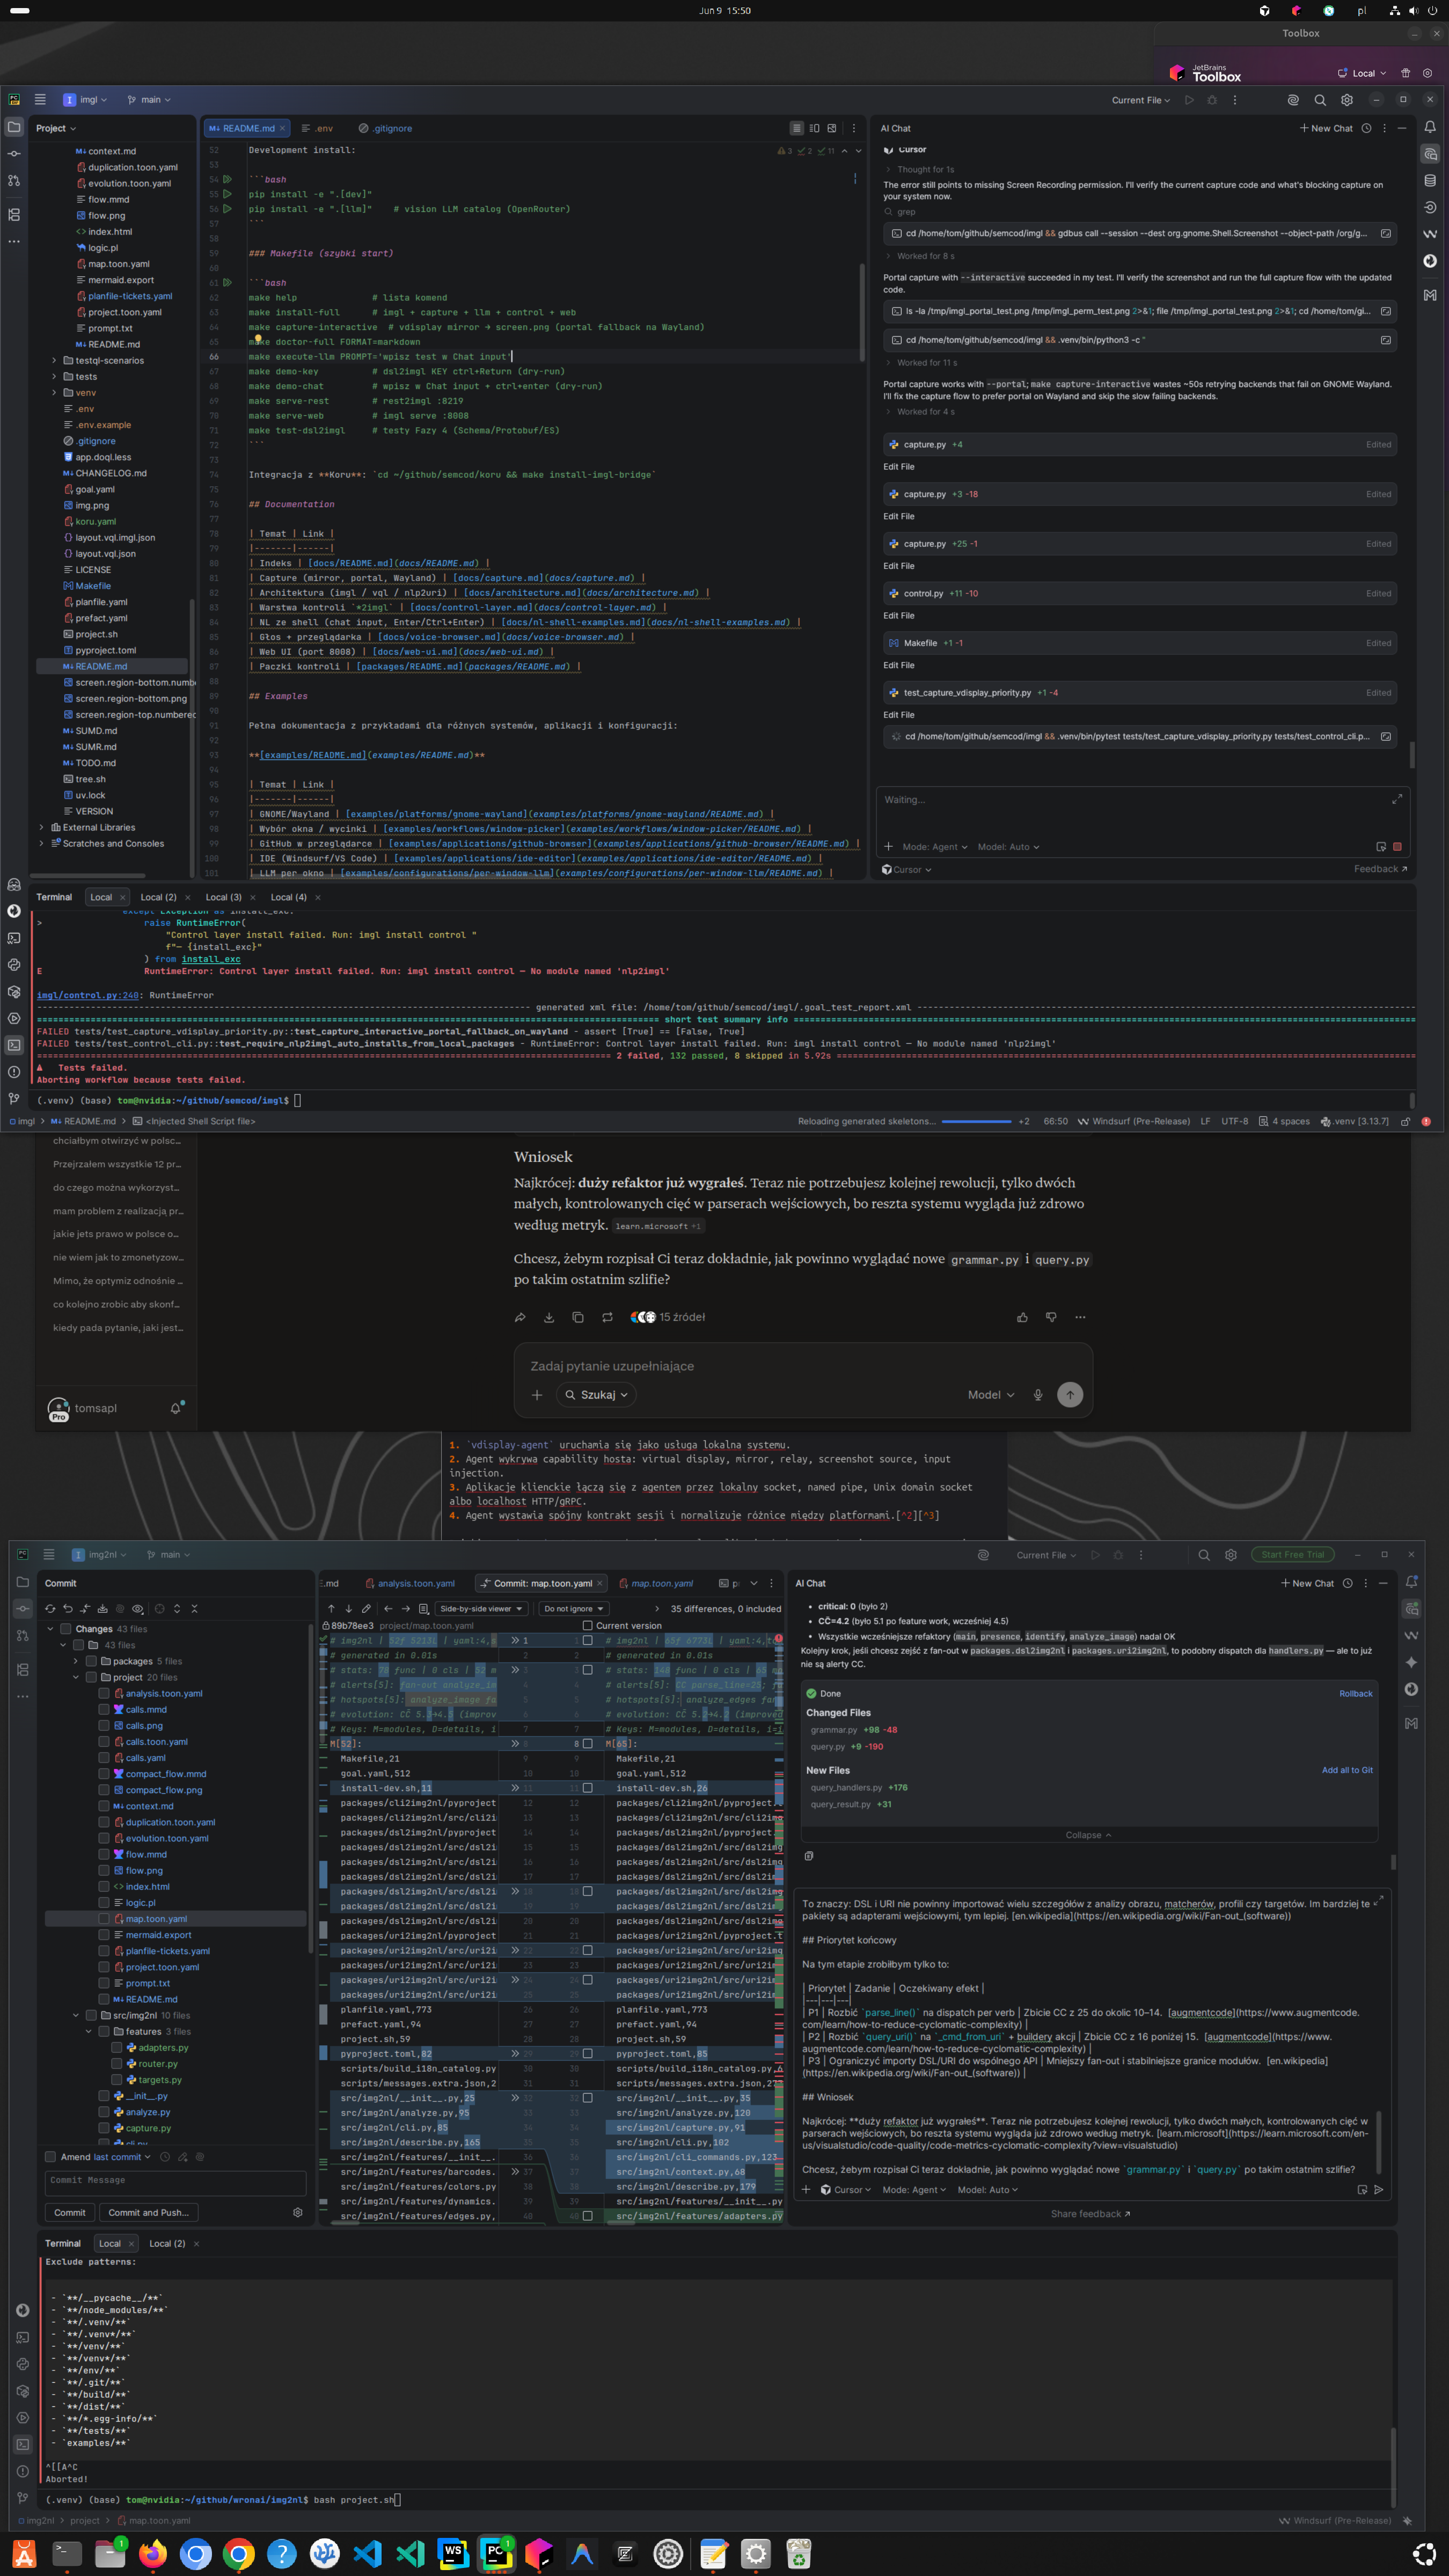
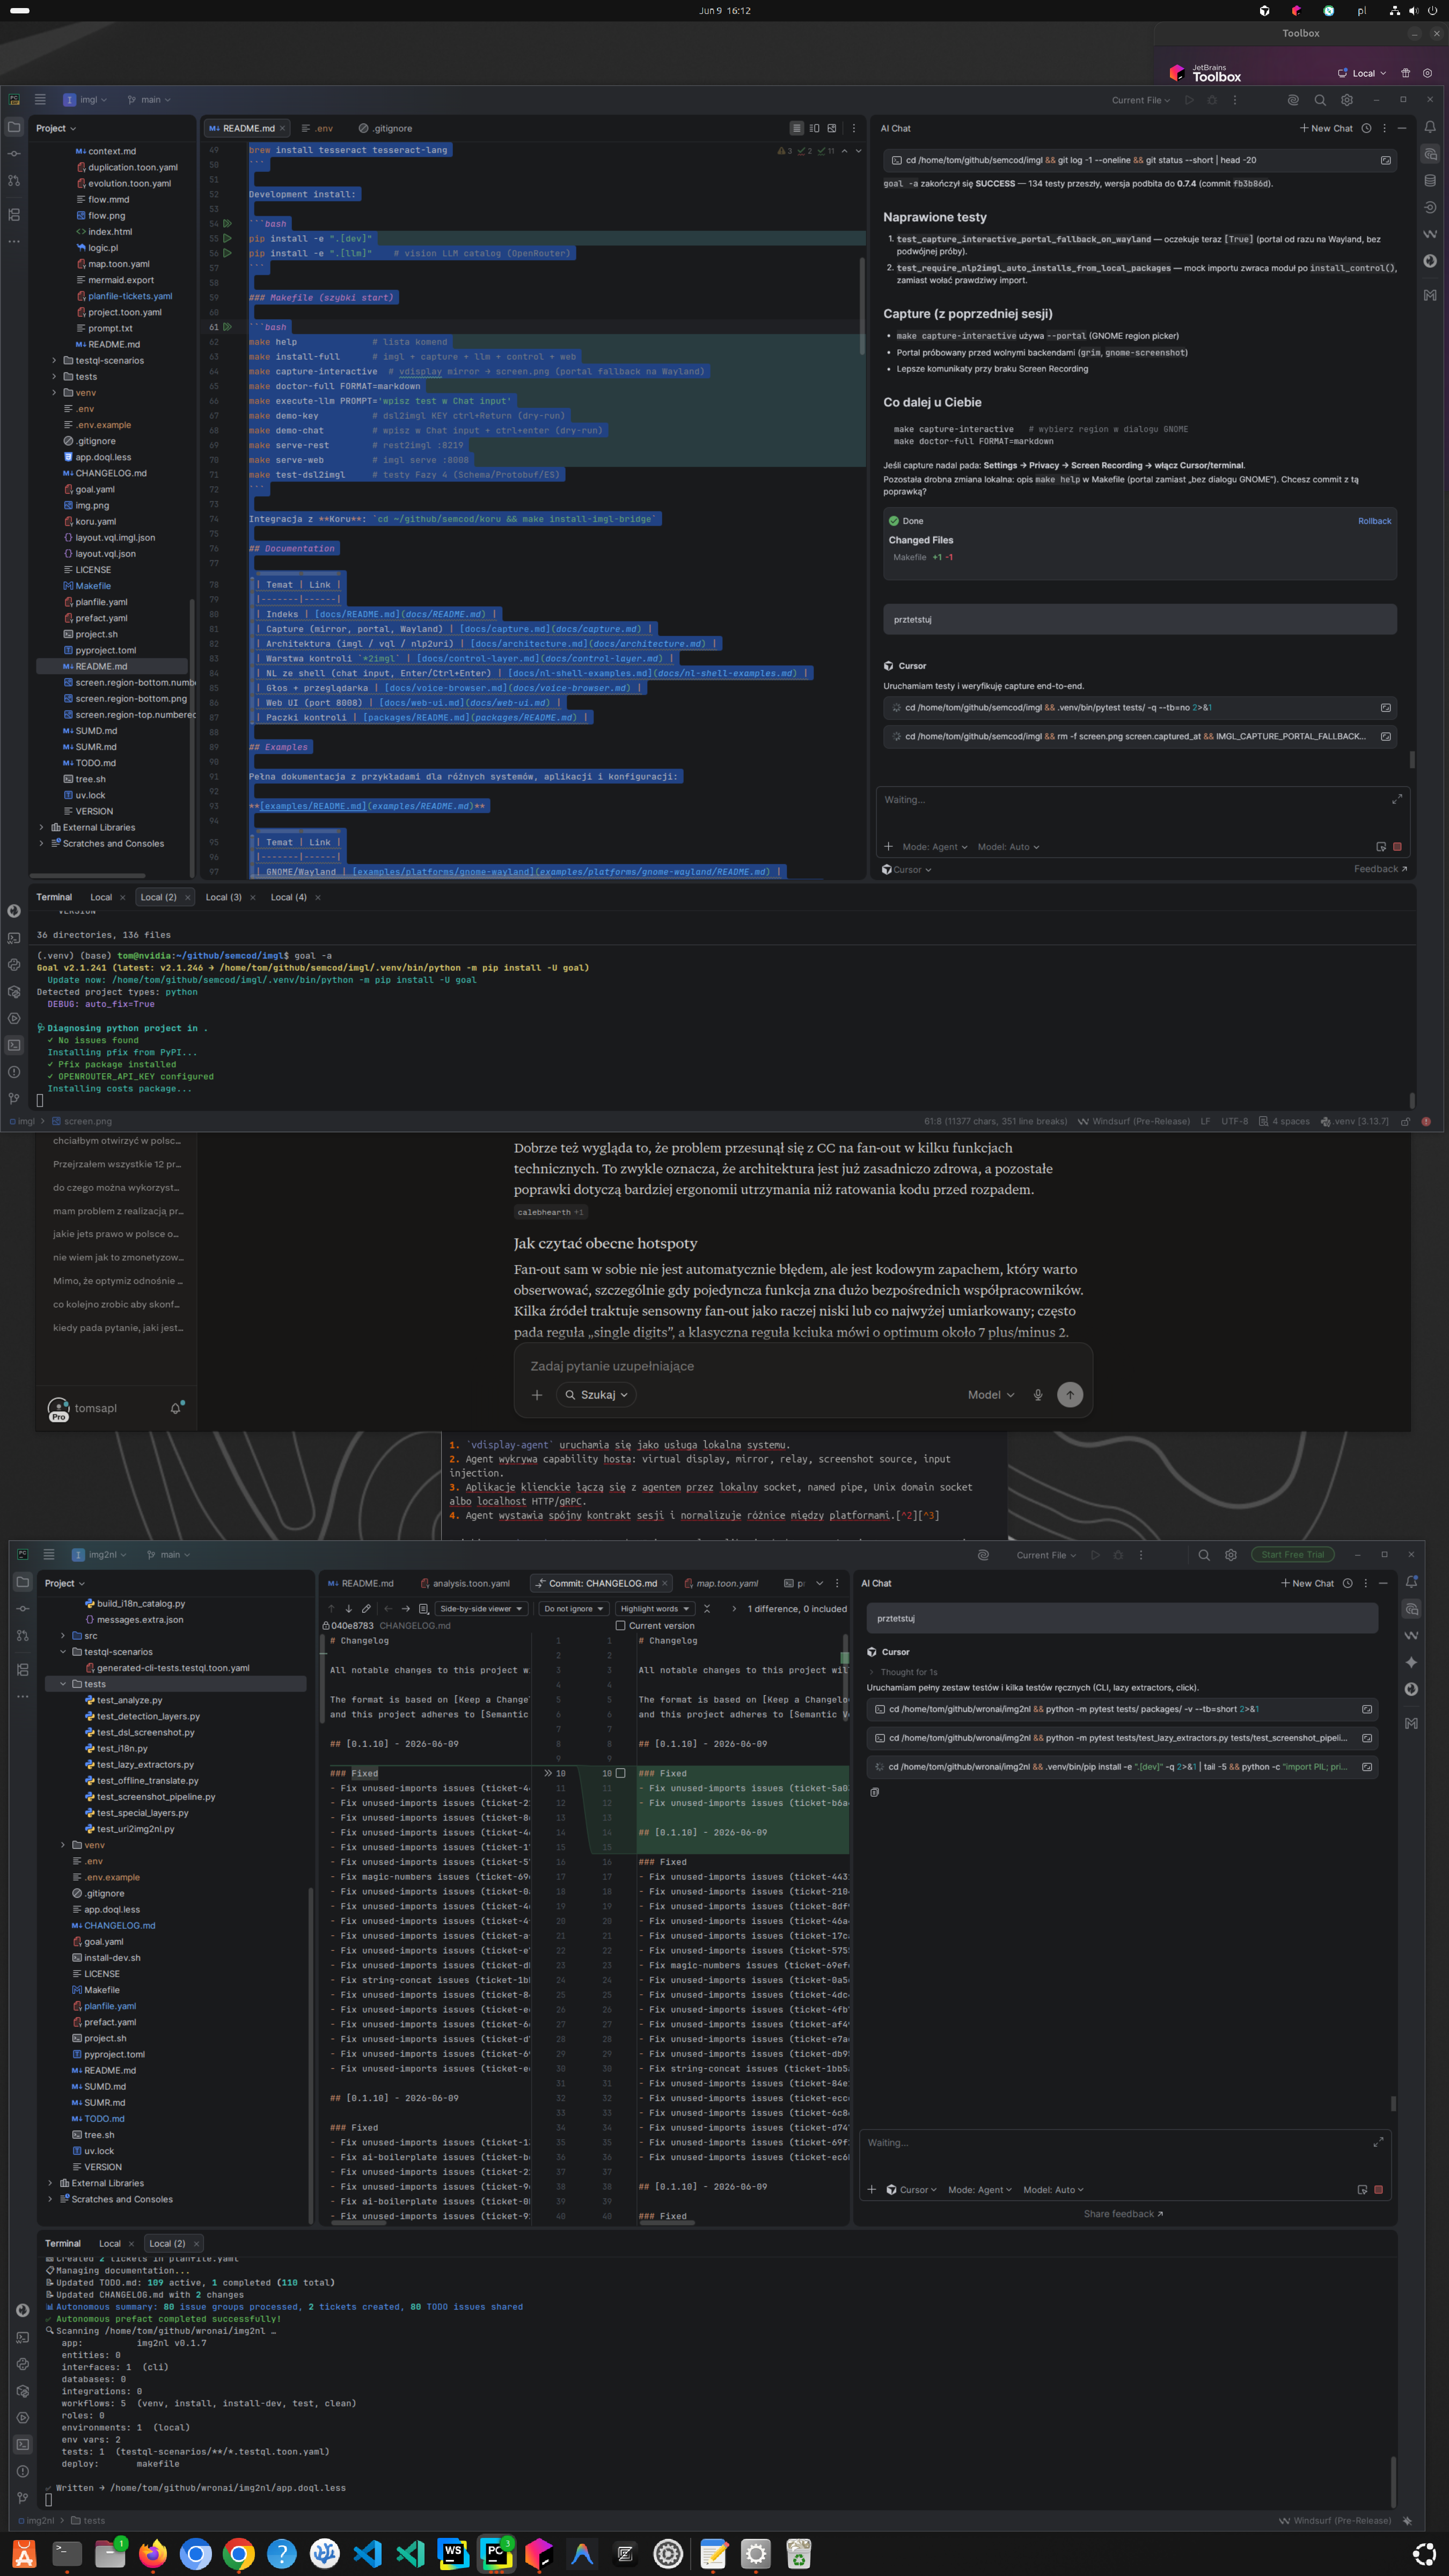
feat(build): code relationship mapping with 3 supporting modules
stats:
  lines: "+21/-7 (net +14)"
  files: 5
  complexity: "Stable complexity"

diff --git a/imgl/__init__.py b/imgl/__init__.py
@@ -5,7 +5,7 @@ Convert screenshots into semantic UI models (JSON/HTML/SVG) with OCR text
 and element bounding boxes.
 """
 
-__version__ = "0.7.4"
+__version__ = "0.7.5"
 __author__ = "Tom Sapletta"
 __email__ = "[email redacted]"
 

diff --git a/CHANGELOG.md b/CHANGELOG.md
@@ -136,6 +136,17 @@ and this project adheres to [Semantic Versioning](https://semver.org/spec/v2.0.0
 - Scene cache (`layout.imgl.json`) — `uri2vql` list/click/type skips re-OCR when cache matches
 - Diagnose vql-fallback returns a short summary instead of empty text
 
+## [0.7.5] - 2026-06-09
+
+### Docs
+- Update README.md
+
+### Other
+- Update Makefile
+- Update project/planfile-tickets.yaml
+- Update screen.captured_at
+- Update screen.png
+
 ## [0.7.4] - 2026-06-09
 
 ### Docs

diff --git a/README.md b/README.md
@@ -5,11 +5,11 @@
 
 ## AI Cost Tracking
 
-![PyPI](https://img.shields.io/badge/pypi-costs-blue) ![Version](https://img.shields.io/badge/version-0.7.4-blue) ![Python](https://img.shields.io/badge/python-3.9+-blue) ![License](https://img.shields.io/badge/license-Apache--2.0-green)
-![AI Cost](https://img.shields.io/badge/AI%20Cost-$9.15-orange) ![Human Time](https://img.shields.io/badge/Human%20Time-3.9h-blue) ![Model](https://img.shields.io/badge/Model-openrouter%2Fqwen%2Fqwen3--coder--next-lightgrey)
+![PyPI](https://img.shields.io/badge/pypi-costs-blue) ![Version](https://img.shields.io/badge/version-0.7.5-blue) ![Python](https://img.shields.io/badge/python-3.9+-blue) ![License](https://img.shields.io/badge/license-Apache--2.0-green)
+![AI Cost](https://img.shields.io/badge/AI%20Cost-$9.84-orange) ![Human Time](https://img.shields.io/badge/Human%20Time-4.4h-blue) ![Model](https://img.shields.io/badge/Model-openrouter%2Fqwen%2Fqwen3--coder--next-lightgrey)
 
-- 🤖 **LLM usage:** $9.1456 (5 commits)
-- 👤 **Human dev:** ~$388 (3.9h @ $100/h, 30min dedup)
+- 🤖 **LLM usage:** $9.8356 (6 commits)
+- 👤 **Human dev:** ~$438 (4.4h @ $100/h, 30min dedup)
 
 Generated on 2026-06-09 using [openrouter/qwen/qwen3-coder-next](https://openrouter.ai/qwen/qwen3-coder-next)
 